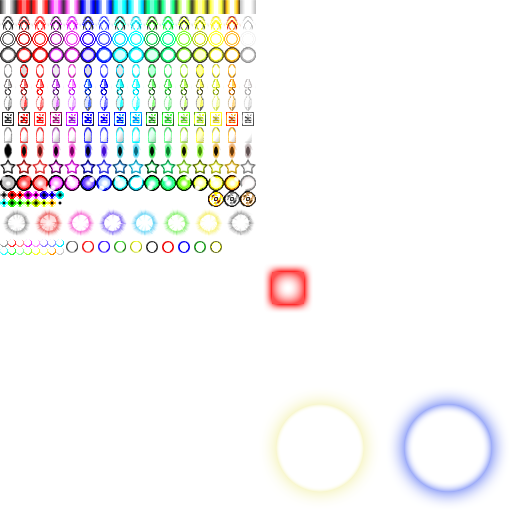
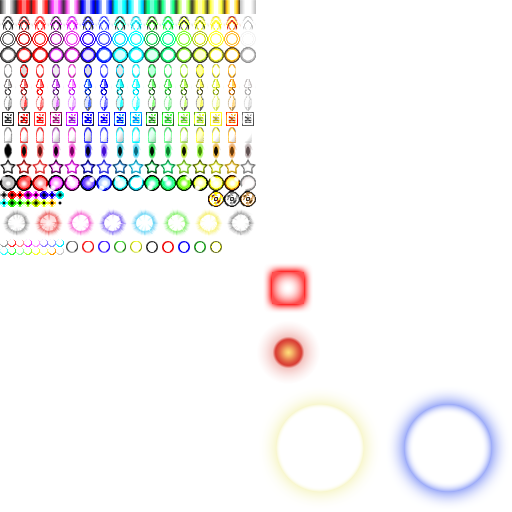
WIP

Changed region(s): [[0.5, 0.625, 0.625, 0.75]]

diff --git a/src/object/danmaku.cc b/src/object/danmaku.cc
@@ -37,7 +37,7 @@ public:
         glEnable(GL_BLEND);
         glBlendFunc(GL_ONE, GL_ONE_MINUS_SRC_ALPHA);
         glBlendEquation(GL_FUNC_ADD);
-        glDepthMask(GL_FALSE);
+        // glDepthMask(GL_FALSE);
 
         glUniformMatrix4fv(uniform[0], 1, GL_FALSE, &camera->vMat()[0][0]);
         glUniformMatrix4fv(uniform[1], 1, GL_FALSE, &camera->pMat()[0][0]);
@@ -47,7 +47,7 @@ public:
 
         glDrawArrays(GL_POINTS, particle->offset(), particle->size());
 
-        glDepthMask(GL_TRUE);
+        // glDepthMask(GL_TRUE);
         glDisable(GL_BLEND);
         glDisable(GL_DEPTH_TEST);
     }

diff --git a/src/component/danmaku_provider.cc b/src/component/danmaku_provider.cc
@@ -56,11 +56,11 @@ public:
             << line(vec3(-1.0f, 20.0f, 60.0f), vec3(1.0f, 0.0f, 0.0f))
             << generator(20)
             << emitter(1.0f, 0.1f)
-            << type(12, 16, 4, 0.5f)
+            << type(8, 16, 4, 0.5f)
             << direction(vec3(0.0f, -20.0f, 0.0f))
             << dieAfter(10.0f)
             << src << Emit();
-        //
+
         // Chain(generator(1))
         //     << point(0.0f, 0.0f, 20.0f)
         //     << direction(5.0f, 0.0f, 0.0f)

diff --git a/src/script/scene1.cc b/src/script/scene1.cc
@@ -13,7 +13,7 @@ public:
         camera = push(Camera::free(vec3(0.0f, 25.0f, 60.0f), -M_PI / 2.0f, 0.0f, 45.0f));
         light = push(LightManager::basic());
         light->ambient(vec3(0.0f, 0.0f, 0.0f));
-        light->point(vec3(0.0f, 0.0f, 0.0f), vec3(0.9f, 0.45f, 0.1f), 40.0f, 0.5f);
+        light->point(vec3(0.0f, 0.0f, 0.0f), vec3(0.9f, 0.4f, 0.1f), 30.0f, 0.5f);
 
         LOG << "create character";
         reimu = push(Character::basic(Model::reimu(), Model::test2()));

diff --git a/src/component/light.cc b/src/component/light.cc
@@ -25,7 +25,7 @@ public:
     }
     void point(vec3 pos, vec3 color, float radius, float alpha) {
         push(Light(vec4(pos, 1.0f), color, vec3(0.0f),
-                   vec4(alpha, (1.0f - alpha) / radius, 0.0f, 0.0f)));
+                   vec4(alpha, 0.0f, (1 - alpha) / radius / radius, 0.0f)));
     }
     void parallel(vec3 dir, vec3 color) {
         push(Light(vec4(normalize(dir), 0.0f), color, vec3(0.0f), vec4(0.0f)));

diff --git a/src/object/skybox.cc b/src/object/skybox.cc
@@ -14,7 +14,7 @@ static const float height = height1 + height2;
 static const float uScale = 16.0f;
 static const float vScale = 32.0f;
 
-static const float wallMaterial[]  = { 1.0f, 0.5f, 1.0f, 10.0f };
+static const float wallMaterial[]  = { 1.0f, 0.0f, 1.0f, 10.0f };
 static const float floorMaterial[] = { 0.0f, 0.0f, 1.0f, 1.0f };
 
 static Vertex vertices[vertexSize];

diff --git a/src/shader/danmaku.cc b/src/shader/danmaku.cc
@@ -68,7 +68,8 @@ static const char *fsh = R"(
 
     void main(void) {
         vec4 color = texture(texture0, uv);
-        fragColor = vec4(color.rgb * color.a, color.a / 2.0f);
+        if (color.a < 0.01) discard;
+        fragColor = vec4(color.rgb * color.a, color.a);
     }
 )";
 
